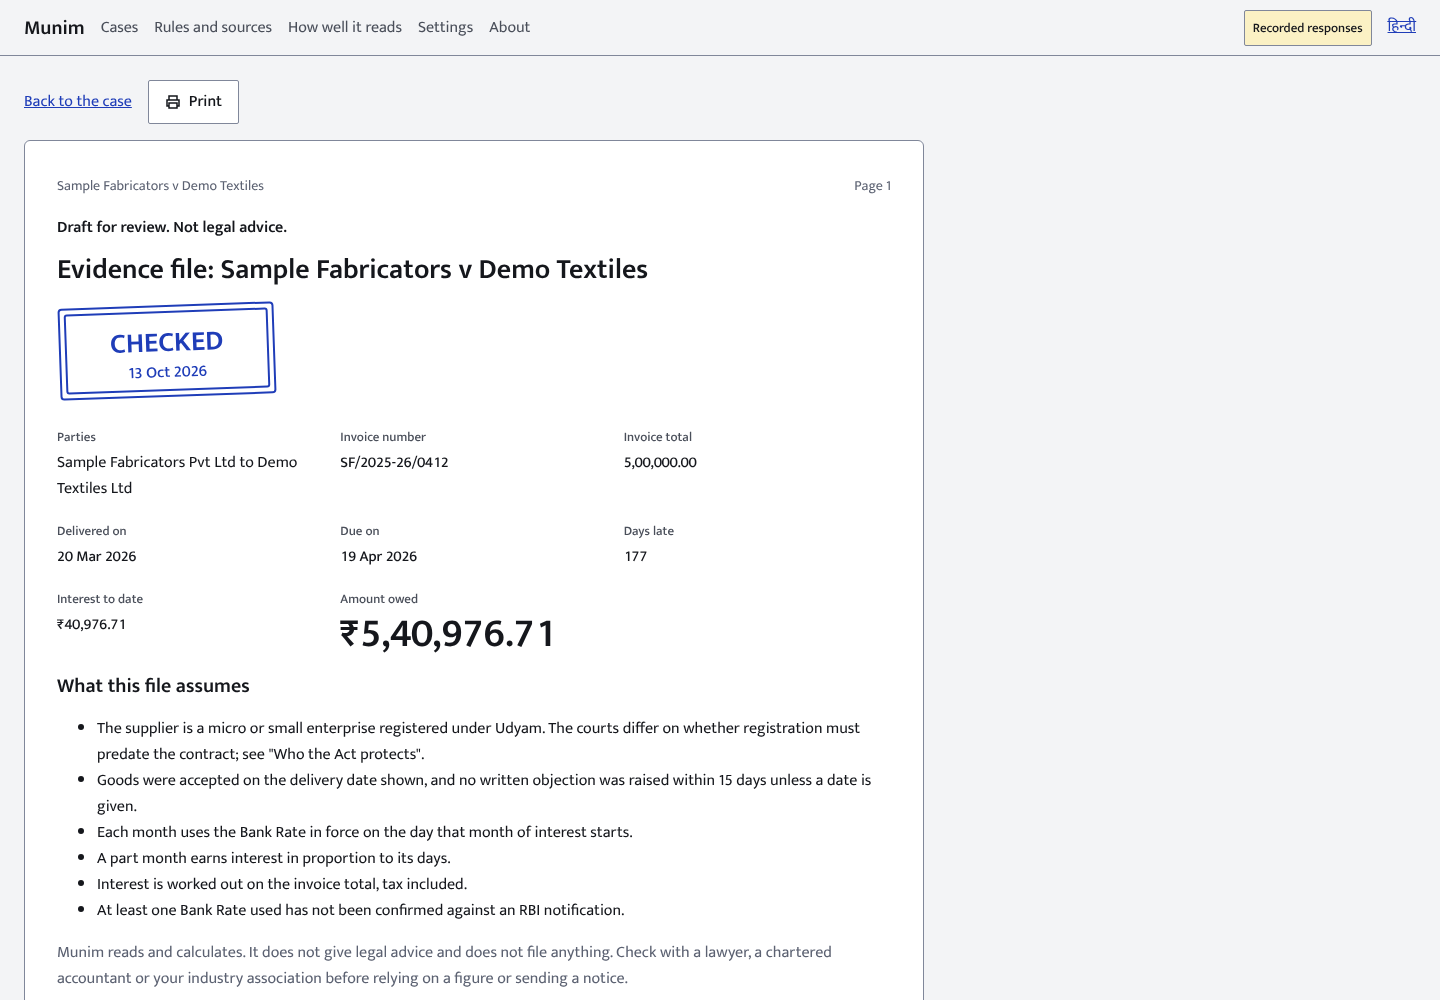
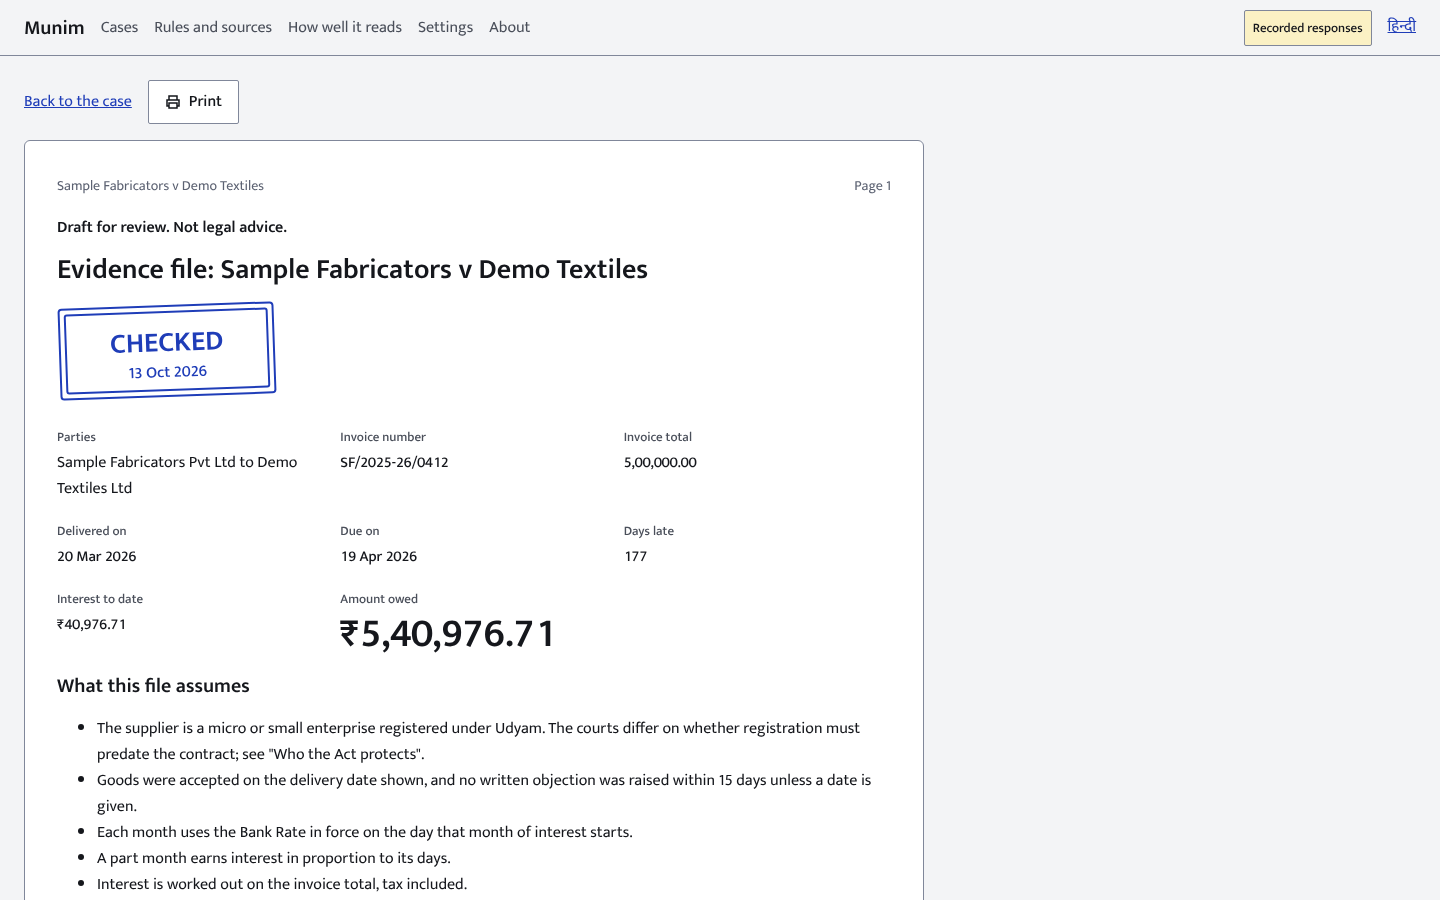
feat(screens): make screens writes 18 screenshots; layout fixes they showed
Gate 5, chunk B. scripts/screens.py starts its own server on replay, builds
the confirmed demo case and saves the case list, workbench and evidence file
at 360, 768 and 1440 px in English and Hindi (18 PNGs, 1.6 MB). It is now
the only writer of docs/screens/; the e2e tests no longer save screenshots.

Reading the screenshots led to three fixes:
- the Hindi check chip wrapped onto three lines (now nowrap in a fitted
  column);
- on a phone the sticky clock strip covered half the screen (it scrolls
  with the page below 900 px);
- the phone nav had too much vertical padding.
The file input's "Choose File" label comes from the browser in its own
language.

The keyboard test raced the post-read redirect about one run in three. It
now opens the settled workbench first (5 of 5 passes); the read helper waits
for the redirected page. pytest tests/e2e --browser chromium: 10 passed.

Assisted-by: Claude Code
Claude-Session: https://claude.ai/code/session_01FSffhMdvZUsEuLRixN617h

diff --git a/packages/munim_web/src/munim_web/static/css/app.css b/packages/munim_web/src/munim_web/static/css/app.css
@@ -222,6 +222,8 @@ table.working td, table.working th { white-space: nowrap; }
 }
 @media (max-width: 899px) {
   .wb-grid { grid-template-columns: 1fr; }
+  /* On a phone a sticky strip with its notes would cover half the screen. */
+  .clock { position: static; }
   .claims { max-height: none; }
   .page, .workbench { padding: var(--space-4); }
 }
@@ -230,9 +232,12 @@ table.working td, table.working th { white-space: nowrap; }
   .claims-table tr, .claims-table th, .claims-table td { display: block; width: 100%; }
   .clock-strip > div:not(.clock-owed) { display: none; }
   .below { grid-template-columns: 1fr; }
-  .topbar { padding: var(--space-2) var(--space-4); }
+  .topbar { padding: var(--space-2) var(--space-4); gap: var(--space-2) var(--space-4); }
+  .nav { gap: 0 var(--space-4); }
+  .nav a { padding: var(--space-2) 0; }
 }
 
 /* A field no rule could check is not a verdict: plain muted text, no chip. */
 .verdict-skipped, .verdict-none { border: 0; background: transparent; color: var(--color-muted); padding: 0; min-height: 0; }
-.check-cell { width: 112px; }
+.check-cell { width: 1%; }
+.verdict { white-space: nowrap; }

diff --git a/scripts/screens.py b/scripts/screens.py
@@ -1,0 +1,112 @@
+"""Screenshots of Munim's main pages at 360, 768 and 1440 px in English and Hindi (make screens).
+
+Starts its own server on a free loopback port with a temporary data folder and the replay
+reader, builds the confirmed demo case from the synthetic fixtures, and writes PNGs to
+docs/screens/. Exit 0 written, 2 when the server or browser fails.
+"""
+
+from __future__ import annotations
+
+import socket
+import sys
+import tempfile
+import threading
+import time
+from pathlib import Path
+
+import httpx
+import uvicorn
+from playwright.sync_api import Page, expect, sync_playwright
+
+ROOT = Path(__file__).resolve().parents[1]
+sys.path.insert(0, str(ROOT))
+
+from munim_web.main import create_app  # noqa: E402
+from munim_web.settings import Settings  # noqa: E402
+
+OUT = ROOT / "docs" / "screens"
+DEMO = ROOT / "eval" / "fixtures" / "demo"
+WIDTHS = (360, 768, 1440)
+KINDS = (("invoice", "Tax invoice"), ("challan", "Delivery challan"), ("po", "Purchase order"))
+
+
+def start(data: Path) -> tuple[str, uvicorn.Server]:
+    with socket.socket() as s:
+        s.bind(("127.0.0.1", 0))
+        port = int(s.getsockname()[1])
+    settings = Settings(
+        data_dir=data, port=port, provider="replay", replay_dir=ROOT / "eval/fixtures/replay"
+    )
+    server = uvicorn.Server(
+        uvicorn.Config(create_app(settings), host="127.0.0.1", port=port, log_level="warning")
+    )
+    threading.Thread(target=server.run, daemon=True).start()
+    url = f"http://127.0.0.1:{port}"
+    for _ in range(100):
+        try:
+            if httpx.get(f"{url}/healthz").status_code == 200:
+                return url, server
+        except httpx.HTTPError:
+            time.sleep(0.05)
+    raise RuntimeError("server did not start")
+
+
+def demo_case(page: Page, url: str) -> str:
+    page.goto(url + "/")
+    page.locator("#title").fill("Sample Fabricators v Demo Textiles")
+    page.locator("#supplier_name").fill("Sample Fabricators Pvt Ltd")
+    page.locator("#buyer_name").fill("Demo Textiles Ltd")
+    page.locator("form[action='/cases'] button").click()
+    page.wait_for_url("**/cases/*")
+    for kind, label in KINDS:
+        page.locator("#file").set_input_files(str(DEMO / f"{kind}.jpg"))
+        page.locator("#kind").select_option(kind)
+        page.locator(".dropzone button").click()
+        expect(page.locator("#viewer-title")).to_have_text(label)
+        page.locator("form[action$='/read'] button").click()
+        expect(page.locator(".status-line")).to_have_text("Paper checked", timeout=20_000)
+    page.locator("input[name=agreement][value=written]").check()
+    page.locator("#credit_days").fill("30")
+    page.locator("#as_on_date").fill("13/10/2026")
+    page.locator("#terms button[type=submit]").click()
+    page.locator("[data-owed]").wait_for()
+    page.locator("form[action$='/confirm'] button").click()
+    page.locator("svg.stamp").wait_for()
+    return page.url.split("/cases/")[1].split("?")[0]
+
+
+def main() -> int:
+    OUT.mkdir(parents=True, exist_ok=True)
+    with tempfile.TemporaryDirectory() as data:
+        try:
+            url, server = start(Path(data))
+        except RuntimeError as exc:
+            print(f"screens: {exc}", file=sys.stderr)
+            return 2
+        with sync_playwright() as p:
+            browser = p.chromium.launch()
+            page = browser.new_page(viewport={"width": 1440, "height": 1000})
+            case_id = demo_case(page, url)
+            pages = {
+                "cases": "/",
+                "workbench": f"/cases/{case_id}",
+                "evidence": f"/cases/{case_id}/dossier",
+            }
+            count = 0
+            for lang in ("en", "hi"):
+                page.context.add_cookies([{"name": "munim_lang", "value": lang, "url": url}])
+                for width in WIDTHS:
+                    page.set_viewport_size({"width": width, "height": 900})
+                    for name, path in pages.items():
+                        page.goto(url + path)
+                        page.evaluate("document.fonts.ready")
+                        page.screenshot(path=str(OUT / f"{name}-{width}-{lang}.png"))
+                        count += 1
+            browser.close()
+        server.should_exit = True
+    print(f"screens: {count} screenshots in {OUT.relative_to(ROOT)}")
+    return 0
+
+
+if __name__ == "__main__":
+    raise SystemExit(main())

diff --git a/tests/e2e/test_journeys.py b/tests/e2e/test_journeys.py
@@ -7,7 +7,7 @@ import re
 import pytest
 from playwright.sync_api import Page, expect
 
-from tests.e2e.conftest import DEMO, SCREENS
+from tests.e2e.conftest import DEMO
 
 pytestmark = pytest.mark.e2e
 
@@ -28,6 +28,9 @@ def add_and_read(page: Page, kind: str, label: str) -> None:
     expect(page.locator("#viewer-title")).to_have_text(label)
     page.get_by_role("button", name="Check this paper").click()
     expect(page.locator(".status-line")).to_have_text("Paper checked", timeout=20_000)
+    # The finished status line redirects to the refreshed workbench; wait for that page.
+    expect(page.locator(".claims-table")).to_be_visible()
+    page.wait_for_load_state("networkidle")
 
 
 def test_demo_journey_red_pen_and_confirm(page: Page, server: str) -> None:
@@ -42,8 +45,6 @@ def test_demo_journey_red_pen_and_confirm(page: Page, server: str) -> None:
     expect(row.locator(".hand")).to_have_text("27AAAPZ5678Z1Z1")
     expect(row.locator(".check-cell")).to_contain_text("Passed")
     expect(row).to_contain_text("The GSTIN checksum now passes.")
-    SCREENS.mkdir(parents=True, exist_ok=True)
-    page.screenshot(path=str(SCREENS / "workbench-1440-en.png"), full_page=True)
     add_and_read(page, "challan", "Delivery challan")
     add_and_read(page, "po", "Purchase order")
     page.get_by_label("Yes, in writing").check()
@@ -53,10 +54,8 @@ def test_demo_journey_red_pen_and_confirm(page: Page, server: str) -> None:
     expect(page.locator("[data-owed]")).to_have_text("₹5,40,976.71")
     page.get_by_role("button", name="Confirm these values").click()
     expect(page.locator("svg.stamp")).to_be_visible()
-    page.screenshot(path=str(SCREENS / "workbench-confirmed-1440-en.png"), full_page=True)
     page.get_by_role("link", name="Open evidence file").click()
     expect(page.locator(".dossier")).to_contain_text("CHECKED")
-    page.screenshot(path=str(SCREENS / "evidence-1440-en.png"))
     assert all(re.match(r"^http://127\.0\.0\.1:\d+/", url) for url in requests), requests
 
 

diff --git a/tests/e2e/test_more_journeys.py b/tests/e2e/test_more_journeys.py
@@ -14,6 +14,7 @@ pytestmark = pytest.mark.e2e
 def test_keyboard_only_edit_and_cancel(page: Page, server: str) -> None:
     create_case(page, server)
     add_and_read(page, "invoice", "Tax invoice")
+    page.goto(page.url)  # a settled workbench: this test is about the table, not the read
     first = page.locator("tr.row").first
     first.focus()
     page.keyboard.press("ArrowDown")
